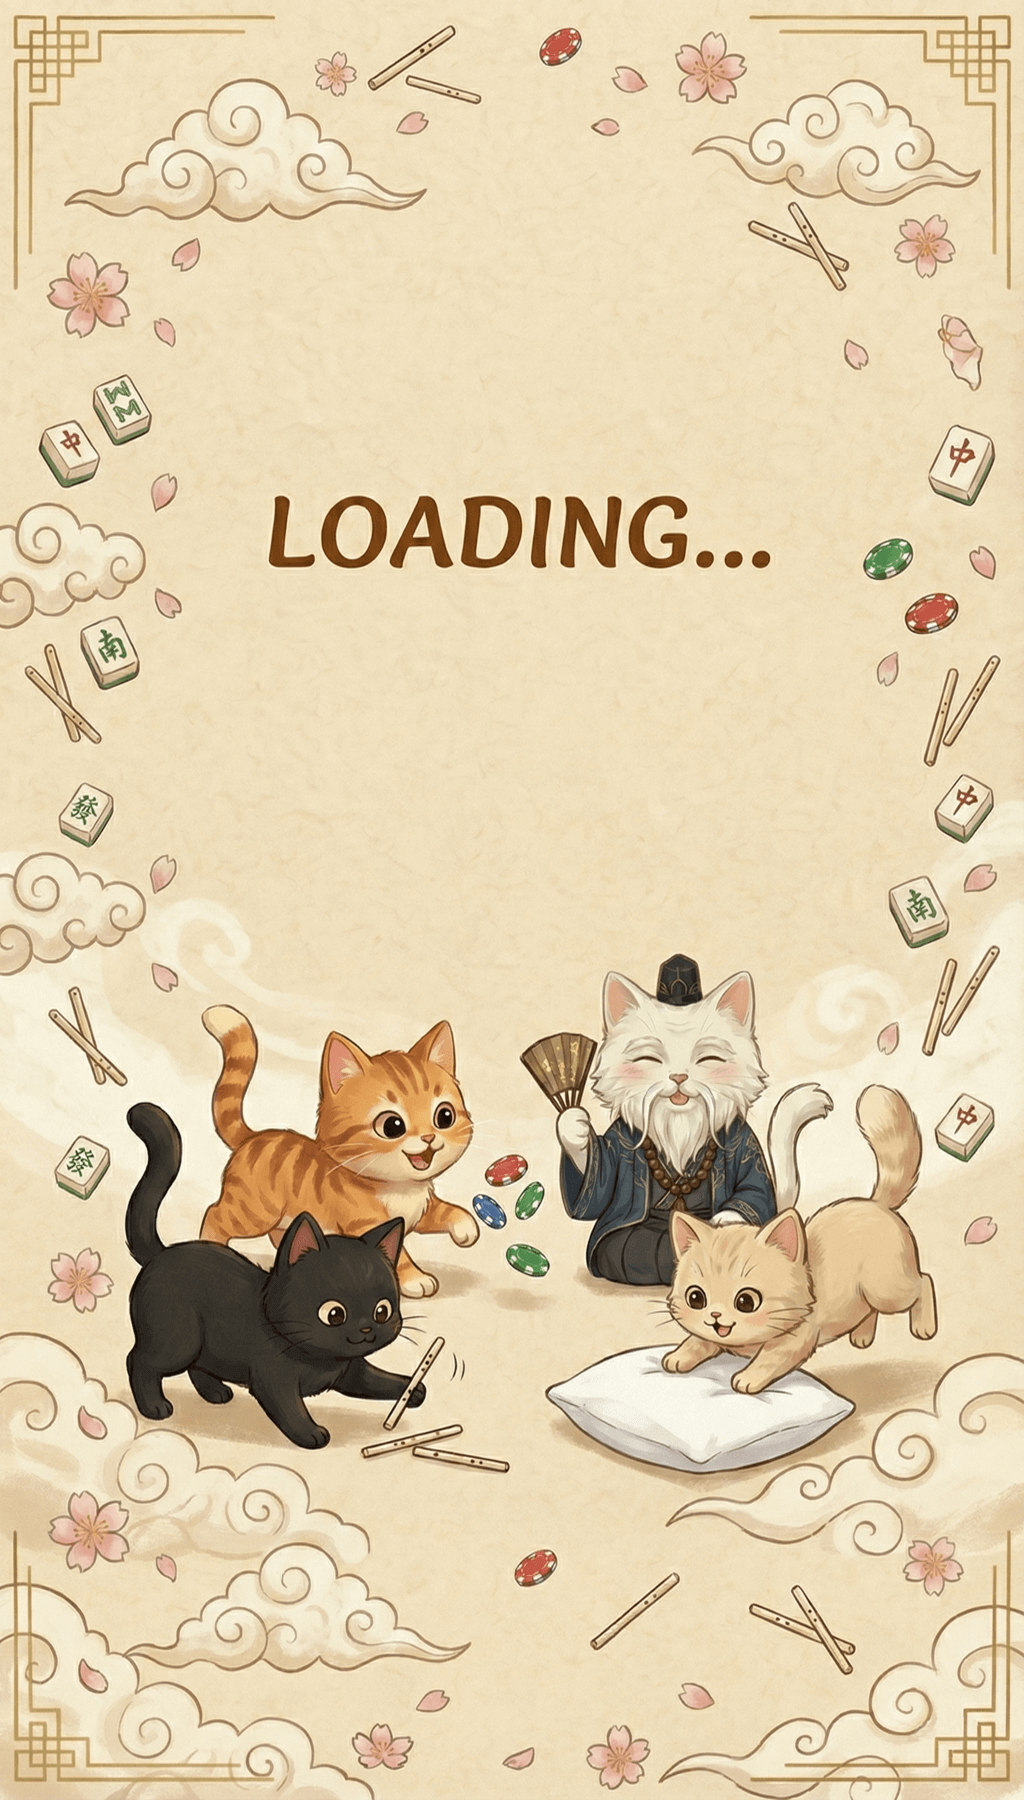
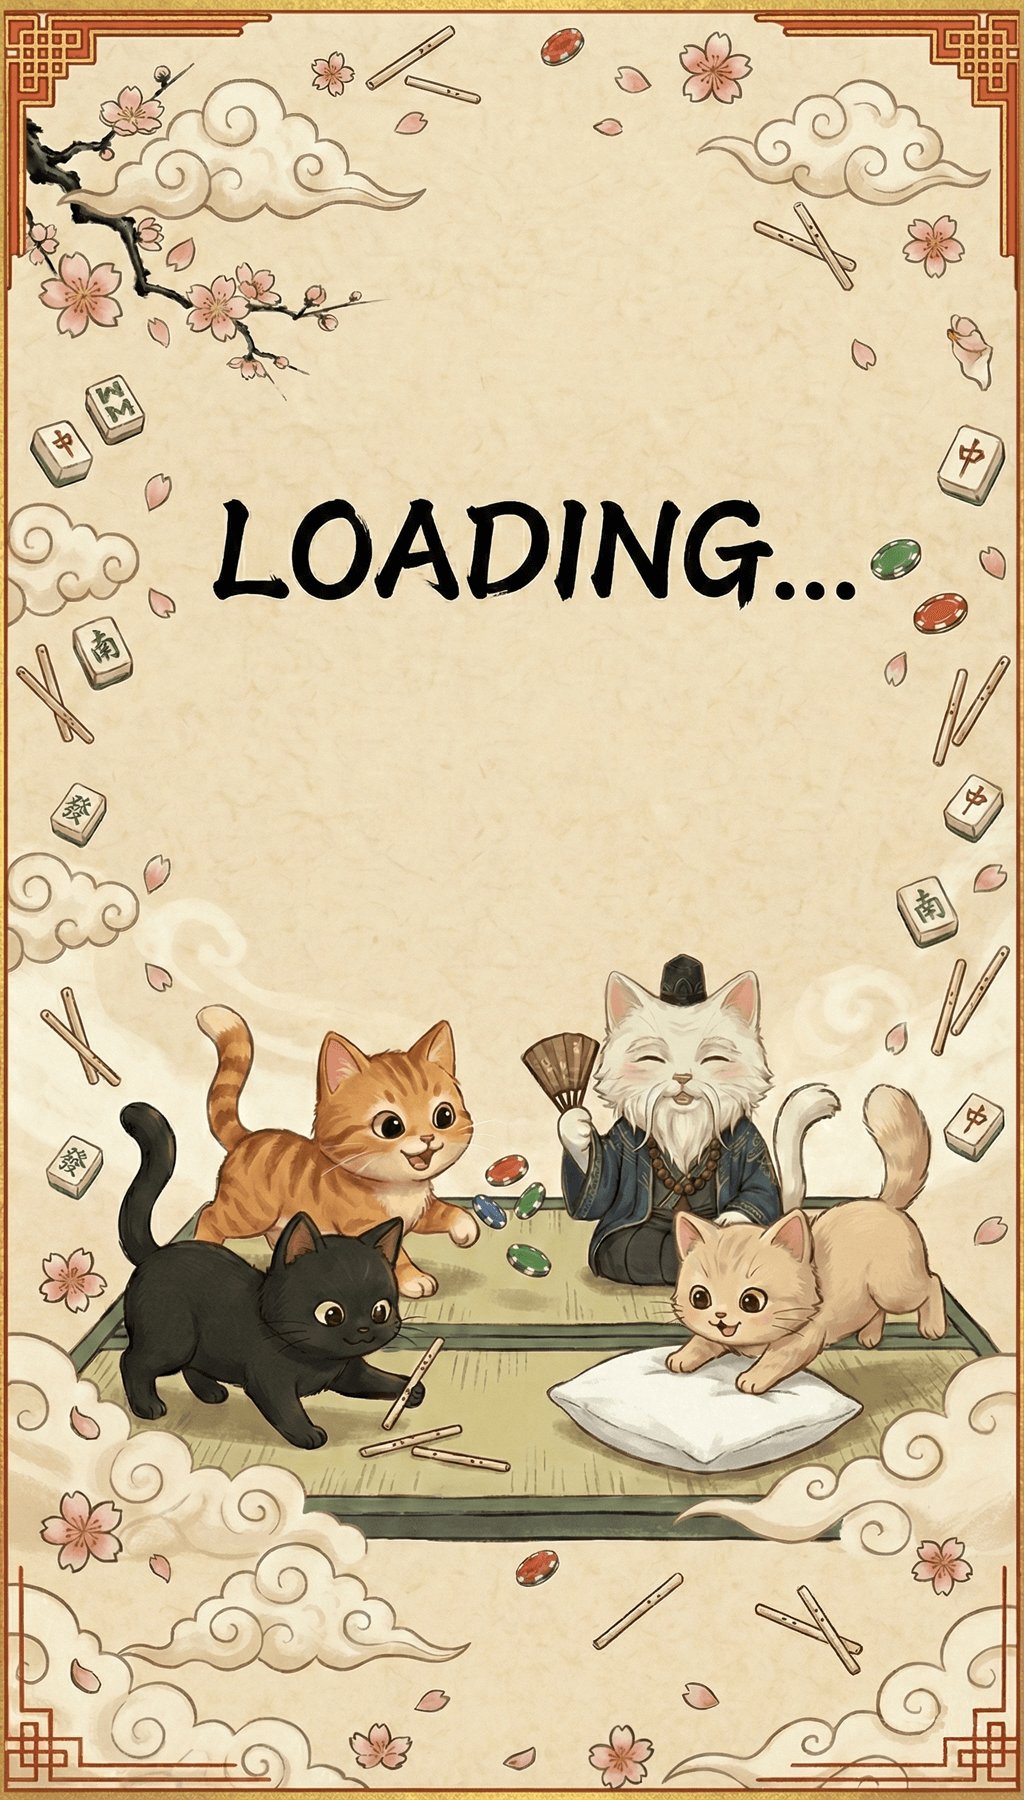
ローディング画面刷新

Changed region(s): [[0.0, 0.0, 1.0, 1.0]]

diff --git a/src/App.vue b/src/App.vue
@@ -1,11 +1,10 @@
 <template>
   <!-- ローディング画面 -->
   <div v-if="isLoading" class="loading-screen">
-    <img src="/assets/images/back/loading.png" alt="Loading..." class="loading-image" />
     <div class="progress-bar-container">
       <div class="progress-bar" :style="{ width: loadingProgress + '%' }"></div>
     </div>
-    <p class="loading-text">Loading... {{ Math.floor(loadingProgress) }}%</p>
+    <p class="loading-text">{{ Math.floor(loadingProgress) }}%</p>
   </div>
 
   <!-- メインコンテンツ -->
@@ -349,32 +348,44 @@ body {
 
 /* --- ローディング画面スタイル --- */
 .loading-screen {
-  position: fixed;
-  top: 0;
-  left: 0;
-  width: 100%;
-  height: 100%;
-  background-color: #222; /* ローディング画面の背景色（暗め） */
+  position: absolute; /* fixedからabsoluteに変更 */
+  top: 50%; /* 画面中央に配置 */
+  left: 50%; /* 画面中央に配置 */
+  transform: translate(-50%, -50%); /* 中央揃え */
+  
+  /* 9:16のアスペクト比を維持しつつ、画面にフィットさせる */
+  width: 100vw;
+  height: 100vh;
+  max-width: calc(100vh * 9 / 16); /* 高さ基準で幅を制限 */
+  max-height: calc(100vw * 16 / 9); /* 幅基準で高さを制限 */
+  
+  background-image: url('/assets/images/back/loading.png'); /* 背景画像として設定 */
+  background-size: cover; /* 画像が画面いっぱいに拡大 */
+  background-position: center; /* 中央に配置 */
+  background-repeat: no-repeat;
+  
   display: flex;
   flex-direction: column;
-  justify-content: center;
+  justify-content: center; /* プログレスバーとテキストを画面下部に配置 */
   align-items: center;
   z-index: 9999; /* 最前面に表示 */
   color: white;
-  font-family: 'M PLUS Rounded 1c', sans-serif;
+  font-family: 'Yuji Syuku', serif;
+  padding-bottom: 50px; /* 下からの余白 */
+  
+  /* 周りの黒い部分を埋めるための背景色 */
+  background-color: #000; 
 }
 
-.loading-image {
-  width: 80%; /* 必要に応じてサイズ調整 */
-  max-width: 300px;
-  margin-bottom: 20px;
-}
+/* .loading-image は削除されたので不要 */
 
 .progress-bar-container {
-  width: 80%;
+  position: absolute;
+  top: 400px;
+  width: 60%;
   max-width: 400px;
   height: 20px;
-  background-color: #555;
+  background-color: rgba(85, 85, 85, 0.7); /* 背景が透けるように */
   border-radius: 10px;
   overflow: hidden;
   margin-bottom: 10px;
@@ -382,13 +393,15 @@ body {
 
 .progress-bar {
   height: 100%;
-  background-color: #4caf50; /* プログレスバーの色（緑） */
+  background-color: #311402; /* プログレスバーの色（こげ茶色） */
   width: 0%; /* 初期幅 */
   transition: width 0.1s linear; /* プログレスバーの滑らかなアニメーション */
 }
 
 .loading-text {
-  font-size: 1.2em;
+  font-size: 1.8em;
+  font-family: 'Yuji Syuku', serif;
+  color: #201e1e;
 }
 
 /* --- ★追加: 遷移アニメーション --- */

diff --git a/src/views/LeaderboardView.vue b/src/views/LeaderboardView.vue
@@ -223,7 +223,7 @@ watch(activeRankingType, (newType) => {
   flex-direction: column;
   align-items: center;
   /* padding: 20px; */ /* 全体paddingを削除 */
-  font-family: 'M PLUS Rounded 1c', sans-serif;
+  font-family: 'Yuji Syuku', serif;
   color: #333;
   background-image: url('/assets/images/back/ranking.png');
   background-size: contain; /* coverからcontainに変更 */

diff --git a/src/styles/main.css b/src/styles/main.css
@@ -13,6 +13,7 @@ body, html, #app {
 body {
   font-family: 'M PLUS 1', sans-serif;
   min-height: 100vh; /* bodyも最小の高さをビューポートに合わせる */
+  background-color: black; /* ローディング画面のレターボックスの背景色 */
 }
 
 /* 特定の要素（例: input や textarea）では選択を許可したい場合 */
